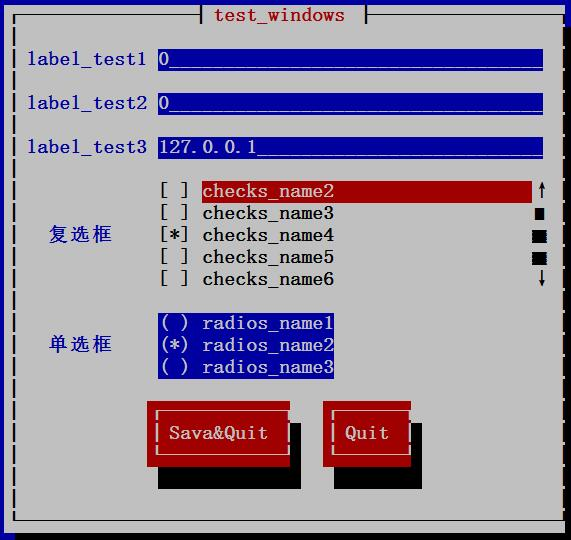
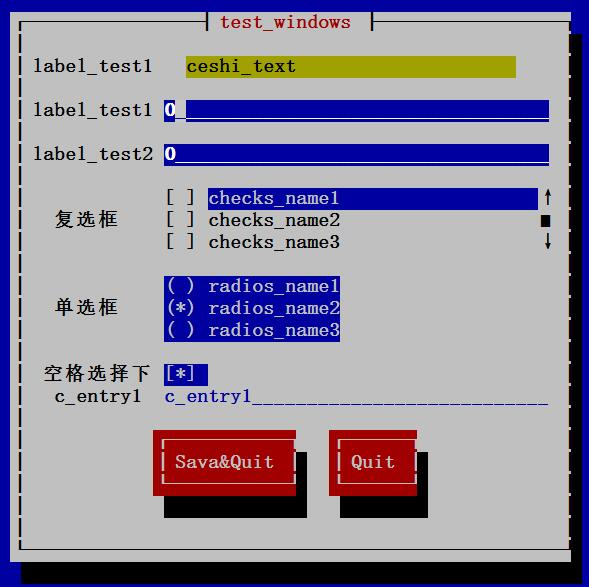
update:snackmenu_utils,添加勾选Check时，自动将下面编辑框修改为不可编辑状态

diff --git a/snackmenu_utils/mylib/snack_lib.py b/snackmenu_utils/mylib/snack_lib.py
@@ -19,6 +19,8 @@ class Mask:
         self._row_grid = 0
         self._elements = {}
         self._buttons = 0
+        self._checks_box=0
+        self._checks_entrylist=[]
         
     def entry(self, label, name, text="", password=0):
         """
@@ -34,7 +36,7 @@ class Mask:
         """
         Creates  text.
         """
-        self.subgrid.setField( Label( label ), 0, self._row, (0,0,1,1) )
+        self.subgrid.setField( Label( label ), 0, self._row, (0,0,0,1) )
         #self.subgrid.setField( TextboxReflowed(self._width,text) , 1, self._row, (0,0,0,1) )
         self.subgrid.setField( TextboxReflowed(self._width,text, flexDown = 5, flexUp = 10, maxHeight = -1) , 1, self._row, (0,0,0,1) )
         self._row += 1
@@ -110,7 +112,37 @@ class Mask:
         self.subgrid.setField( self._elements[name], 1, self._row, (0,0,0,1), anchorLeft=1, growx=1 )
         
         self._row += 1
+    def checks_entry(self, label,name,checked,entry_list):
+        """
+            (labelname,name,checked,[ (label, name,text), ... ])
+        """
+        self._checks_box=name
+        self.subgrid.setField( Label( label ), 0, self._row)
+        self._elements[name] = Checkbox("")
+        self.subgrid.setField( self._elements[name], 1, self._row,anchorLeft=1)
+        self._elements[name].setCallback(self.checkBox_flag)
+        if checked:
+            self._elements[name].setValue('*')
+        self._row += 1
+        for option in entry_list:
+            (label,name,text) = option
+            self.subgrid.setField( Label( label ), 0, self._row)
+            self._elements[name] = Entry(self._width, text)
+            self._checks_entrylist.append(name)
+            self.subgrid.setField( self._elements[name], 1, self._row, (0,0,0,1) )
+            self._row += 1
+        self.checkBox_flag()
         
+    def checkBox_flag(self):
+        if self._checks_box:
+            if self._elements[self._checks_box].selected():
+                state = FLAGS_SET
+            else:
+                state = FLAGS_RESET
+
+            for i in self._checks_entrylist:
+                self._elements[i].setFlags(FLAG_DISABLED, state)
+
     def run(self,width = 0,height = 0):
         """
         Runs until a button is pressed.

diff --git a/snackmenu_utils/example1.py b/snackmenu_utils/example1.py
@@ -1,0 +1,51 @@
+#!/usr/bin/python
+#coding=utf8
+ 
+import os
+import sys
+root_path = os.path.dirname(__file__)
+sys.path.insert(0, os.path.join(root_path, '..'))
+from mylib.snack_lib import *
+
+screen = SnackScreen()
+screen.setColor("ROOT", "white", "blue")
+screen.setColor("ENTRY","white","blue")
+screen.setColor("LABEL","black","white")
+screen.setColor("HELPLINE","white","blue")
+screen.setColor("TEXTBOX","black","yellow")
+def test():
+     m = Mask( screen, "test_windows", 35 )
+     m.text("label_test1","ceshi_text")
+     m.entry( "label_test1", "entry_test1", "0" )
+     m.entry( "label_test2", "entry_test2", "0" )
+     m.checks( "复选框","checks_list",[
+         ('checks_name1','checks1',0),
+         ('checks_name2','checks2',0),
+        ('checks_name3','checks3',0),
+         ('checks_name4','checks4',1),
+         ('checks_name5','checks5',0),
+         ('checks_name6','checks6',0),
+         ('checks_name7','checks7',0),
+     ],
+     height= 3
+     )    
+     m.radios( "单选框","radios", [ 
+         ('radios_name1','radios1', 0), 
+         ('radios_name2','radios2', 1), 
+         ('radios_name3','radios3', 0) ] )  
+     m.checks_entry( "空格选择下","checks_entry", 1,[ 
+         ('c_entry1','c_entry1','c_entry1')])  
+     
+     m.buttons( yes="Sava&Quit", no="Quit" )
+     #(cmd, results) = m.run(12,3)
+     (cmd, results) = m.run()
+     screen.finish() 
+     return cmd,results
+
+try:
+    (cmd,results) = test()
+    print cmd,results
+except Exception ,e:
+    print e
+finally:
+    screen.finish()
